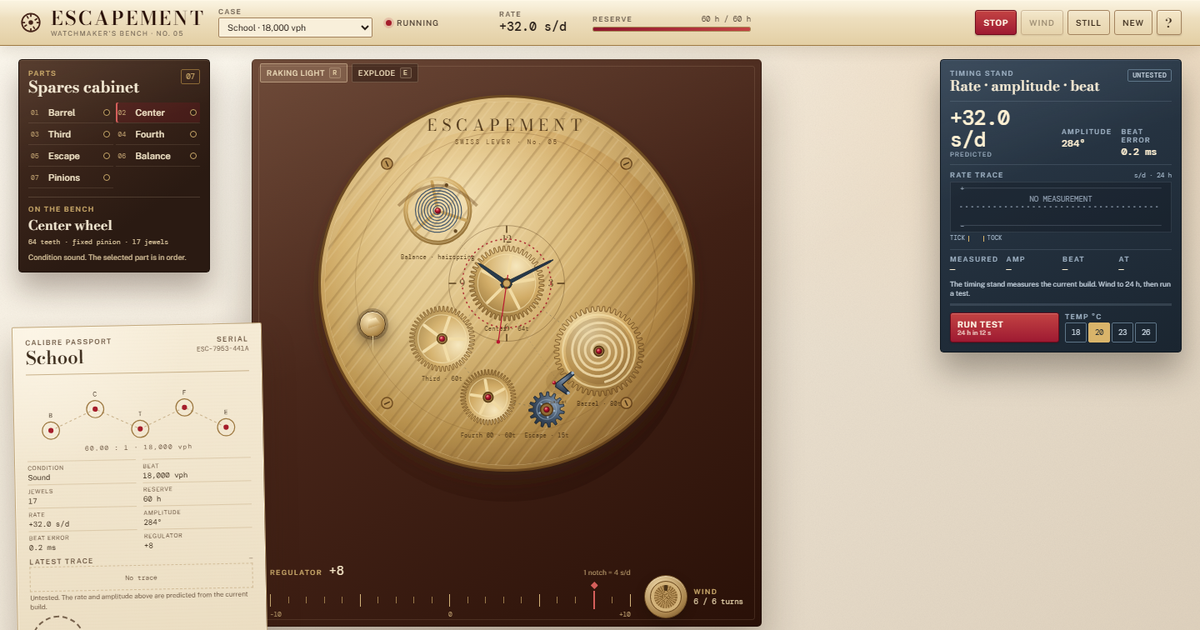
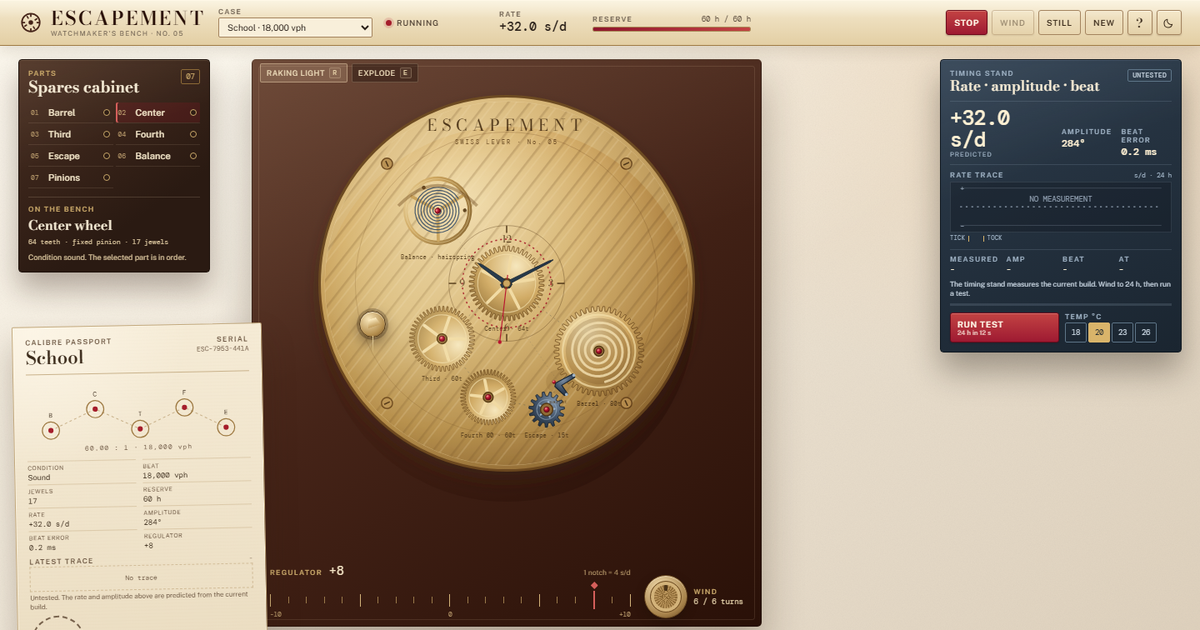
Present the bench with new screenshots and a live demo section

Changed region(s): [[0.7708, 0.0, 0.9558, 0.0603], [0.3392, 0.2714, 0.4008, 0.3921], [0.4317, 0.573, 0.4933, 0.6937]]

diff --git a/README.md b/README.md
@@ -4,13 +4,30 @@ A watchmaker's bench in the browser. Assemble a mechanical movement, wind the ma
 
 Silent by design. Deterministic horology. No account, no backend, no network requests after load.
 
-**Live:** [escapement-two.vercel.app](https://escapement-two.vercel.app)
-
+[![Live Demo](https://img.shields.io/badge/live-escapement--two.vercel.app-9e1a32)](https://escapement-two.vercel.app)
 [![CI](https://github.com/devtechedge/escapement/actions/workflows/ci.yml/badge.svg)](https://github.com/devtechedge/escapement/actions/workflows/ci.yml)
-[![Live on Vercel](https://img.shields.io/badge/live-escapement--two.vercel.app-9e1a32)](https://escapement-two.vercel.app)
+[![Vite](https://img.shields.io/badge/Vite-7-646CFF?logo=vite&logoColor=white)](https://vite.dev)
+[![React](https://img.shields.io/badge/React-19-61DAFB?logo=react&logoColor=black)](https://react.dev)
+[![TypeScript](https://img.shields.io/badge/TypeScript-strict-3178C6?logo=typescript&logoColor=white)](https://www.typescriptlang.org)
 [![License: MIT](https://img.shields.io/badge/license-MIT-9e7a43)](LICENSE)
 
-![ESCAPEMENT, the School calibre on a watchmaker's bench](docs/screenshot.png)
+## Live Demo
+
+**https://escapement-two.vercel.app**
+
+> Client-side only. The bench, saved calibres, and test history live in your browser. No account, no backend, no network after load.
+
+## Screenshots
+
+![The School calibre on the day bench](docs/screenshots/01-bench.png)
+
+![The School calibre certified, with a measured rate trace](docs/screenshots/02-certified.png)
+
+![The Pocket calibre with a worn fourth pivot](docs/screenshots/03-pocket.png)
+
+![The bench at night with the lamp toggle](docs/screenshots/04-night.png)
+
+<img src="docs/screenshots/05-mobile.png" alt="The bench at phone width" width="320" />
 
 ## The bench
 
@@ -30,6 +47,7 @@ New builds can start clean or with one of five seeded conditions: a magnetized h
 - Repair the cause, not the symptom. Each fault has a physical fix in the cabinet.
 - Earn a bench certificate when the measured rate is within plus or minus ten seconds per day, the amplitude is 250 to 320 degrees, and the beat error is under 0.5 milliseconds.
 - Export the calibre passport as SVG, the build as JSON, and import a build back.
+- Switch the bench between day and night with the lamp toggle or the L key.
 
 Everything stays in this browser. The bench persists to IndexedDB with a localStorage fallback.
 
@@ -45,6 +63,7 @@ Everything stays in this browser. The bench persists to IndexedDB with a localSt
 | `W` | Wind one turn |
 | `T` | Run the timing test |
 | `C` | Go to the calibre passport |
+| `L` | Switch between day and night |
 | `Space` | Start or stop the movement |
 | `?` | Bench note and model limits |
 | `Escape` | Close the bench note |
@@ -65,11 +84,15 @@ This is a teaching model, not a certified chronometer. The rate, amplitude, and 
 
 ## Stack
 
-- Vite 7, React 19, TypeScript strict.
-- Self-hosted Bodoni Moda, Public Sans, and DM Mono through Fontsource. No external assets.
-- SVG movement and rate trace, CSS materials, no Canvas.
-- Vitest for the horology, Playwright for the bench.
-- No backend, accounts, analytics, state library, UI kit, or runtime network calls.
+| Layer | Choice |
+| --- | --- |
+| Frontend | Vite 7, React 19, TypeScript strict |
+| Movement | Generated SVG, CSS materials |
+| Simulation | Pure TypeScript horology |
+| State | React state, IndexedDB with localStorage fallback |
+| Fonts | Self-hosted Bodoni Moda, Public Sans, DM Mono |
+| Tests | Vitest and Playwright |
+| Host | Vercel static |
 
 ## Run locally
 
@@ -82,10 +105,10 @@ Production preview:
 
 ```bash
 npm run build
-npm run preview -- --host 127.0.0.1 --port 4391
+npm run preview
 ```
 
-The end-to-end suite uses port 4391. Keep it unique: another project's preview on the same port will silently serve the wrong app.
+Tests:
 
 ```bash
 npm test
@@ -94,8 +117,8 @@ npm run e2e
 
 ## Verification
 
-- Typecheck, ESLint, 19 unit tests, and 7 Playwright tests are green.
-- Lighthouse on the production build: **97 performance desktop, 93 mobile, 100 accessibility, 100 best practices, 100 SEO**.
+- Typecheck, ESLint, 19 unit tests, and 8 Playwright tests are green.
+- Lighthouse on the production build: **99 performance desktop, 91 mobile, 100 accessibility, 100 best practices, 100 SEO**.
 - No console errors, no external requests after load, and no horizontal scroll at 390 px.
 - CI runs typecheck, lint, unit tests, the production build, and Playwright; Dependabot tracks patch and minor updates.
 
